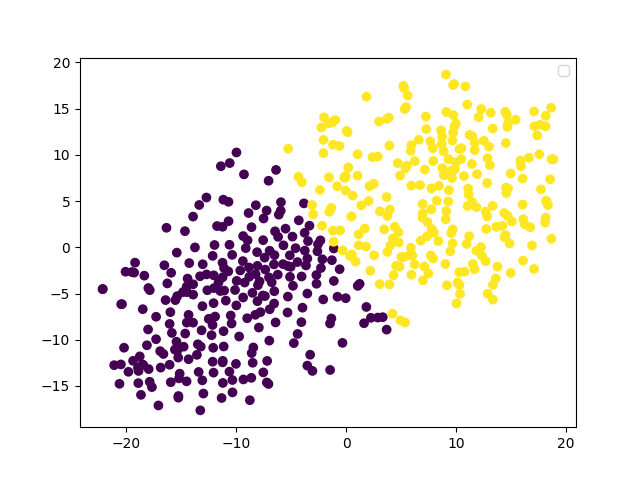
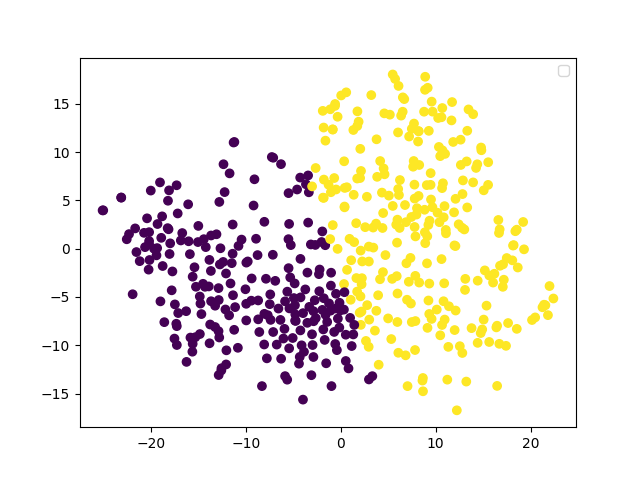
reduce to 2048

diff --git a/src/model.py b/src/model.py
@@ -18,10 +18,19 @@ class AE(nn.Module):
             nn.Conv2d(128, 256, 3, stride=1, padding=1), # 8 -> 4
             nn.BatchNorm2d(256),
             nn.ReLU(True),
+            nn.MaxPool2d(2),
+
+            nn.Conv2d(256, 512, 3, stride=1, padding=1),
+            nn.BatchNorm2d(512),
+            nn.ReLU(True),
             nn.MaxPool2d(2)
         )
  
         self.decoder = nn.Sequential(
+            nn.ConvTranspose2d(512, 256, 3, stride=1),
+            nn.BatchNorm2d(256),
+            nn.ReLU(True),
+
             nn.ConvTranspose2d(256, 128, 5, stride=1),
             nn.BatchNorm2d(128),
             nn.ReLU(True),

diff --git a/src/cluster.py b/src/cluster.py
@@ -22,11 +22,11 @@ def inference(X, model, batch_size=256):
 
 def predict(latents):
     # First Dimension Reduction
-    '''
-    transformer = KernelPCA(n_components=2048, kernel='rbf', n_jobs=-1)
+    
+    transformer = KernelPCA(n_components=256, kernel='rbf', n_jobs=-1)
     kpca = transformer.fit_transform(latents)
     print('First Reduction Shape:', kpca.shape)
-    '''
+    
 
     # # Second Dimesnion Reduction
     X_embedded = TSNE(n_components=2).fit_transform(latents)

diff --git a/src/main.py b/src/main.py
@@ -10,7 +10,7 @@ from utils import *
 from model import AE
 from cluster import *
 
-TRAIN = 0
+TRAIN = 1
 TEST = 1
 HW = 1
 EPOCH = 250
